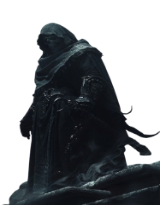
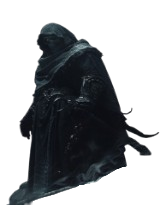
feat: increase VN sprite size and apply forced scaling

Changed region(s): [[0.125, 0.761, 1.0, 1.0], [0.0, 0.9951, 0.0625, 1.0], [0.8125, 0.4976, 0.8438, 0.5268]]

diff --git a/css/novel.css b/css/novel.css
@@ -56,31 +56,41 @@ body.vn-active {
     transform: translateX(-50%);
 }
 
-/* Character sprites */
-.characterLayer {
-    position: absolute;
-    inset: 0;
-    pointer-events: none;
-    z-index: 1;
-}
+/* --- SPRITES SITTING ON THE TEXTBOX --- */
 
 .spriteElement {
     position: absolute;
-    bottom: 100px;
-    max-height: 520px;
+    bottom: 105px;
+
+    /* FORCE REAL SIZE INSTEAD OF JUST A LIMIT */
+    height: 60vh;          /* big, VN-style height */
+    width: auto;
     object-fit: contain;
+
     opacity: 0;
     transition: opacity 0.4s ease;
 }
 
-.leftSprite {
-    left: 139px;
-    transform: scaleX(-1);
+
+/* LEFT SPRITE */
+#vnSpriteLeft {
+    left: 210px; /* Move rightward so it sits ON the textbox */
 }
 
-.rightSprite {
-    right: 100px;
+/* RIGHT SPRITE */
+#vnSpriteRight {
+    right: 210px; /* Move leftward so it sits ON the textbox */
 }
+
+
+/* --------------------------------------------------
+   ACTIVE SPRITE FADE-IN
+-------------------------------------------------- */
+.spriteElement.active {
+    opacity: 1;
+}
+
+
 
 .spriteElement.active {
     opacity: 1;
